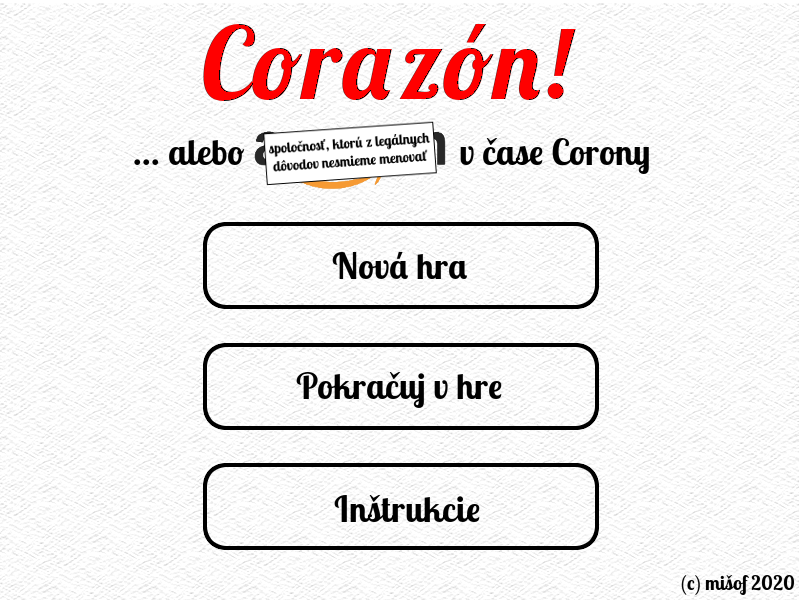
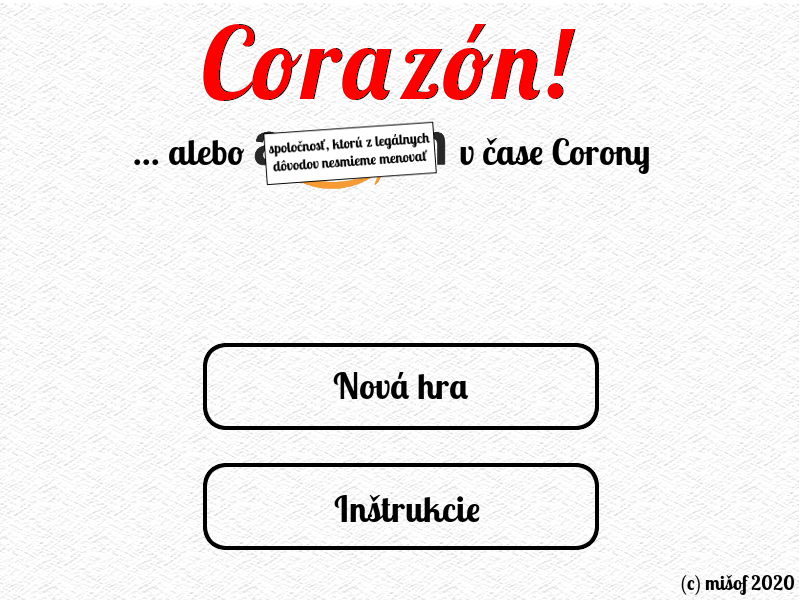
save and load (cloning) works

diff --git a/corazon.py b/corazon.py
@@ -1,63 +1,18 @@
-import math, random, sys, time
+import math, pickle, random, sys, time
 from easygame import *
 from constants import *
 from helper_functions import *
+from resources import *
+from state import State
 from interns import Intern
 from vans import Van
 from airplanes import Airplane
 from player import Player
 
-pic_init_screen = load_image('resources/init_screen.png')
-pic_init_screen_nocont = load_image('resources/init_screen_nocont.png')
-pic_instr_screen = load_image('resources/instructions.png')
-pic_background = load_image('resources/background.png')
-pic_sklad = load_image('resources/sklad.png')
-pic_riksarempty = load_image('resources/riksarempty.png')
-pic_riksarorange = load_image('resources/riksarorange.png')
-pic_dom = load_image('resources/dom.png')
-pic_van = load_image('resources/van.png')
-pic_veziak = load_image('resources/veziak.png')
-pic_lietadlo = load_image('resources/lietadlo.png')
-pic_mesto = load_image('resources/mesto.png')
-
-def formatuj_cislo(cislo):
-    sufixy = [ '', 'k', 'M', 'G', 'T', 'P', 'E', 'Z', 'Y' ]
-    exponent = 0
-    while exponent+1 < len(sufixy) and cislo % 1000 == 0:
-        cislo //= 1000
-        exponent += 1
-    return str(cislo) + sufixy[exponent]
-
-class GameState:
-    def __init__(self):
-        self.stage = 0
-        self.money = 244990
-        self.item_counts = [ 0 for _ in range(len(STAGES)) ]
-
-        self.current_status_message = 'Vitaj!'
-        self.player = Player()
-
-        self.last_disinfection = 25 + time.time()
-        self.seen_disinfection_button = False
-
-        self.interns = []
-        self.vans = []
-        self.airplanes = []
-
-    def get_all_workers(self):
-        return self.interns + self.vans + self.airplanes
-
-    def is_player_active(self):
-        return len(self.get_all_workers()) == 0
-
-def terminate():
-    close_window()
-    sys.exit()
-
 def main_menu():
     while True:
         next_frame()
-        draw_image(pic_init_screen_nocont, position=(0, 0), anchor=(0, 0))
+        draw_image(pic_init_screen, position=(0, 0), anchor=(0, 0))
         for event in poll_events():
             if type(event) is CloseEvent:
                 terminate()
@@ -65,17 +20,15 @@ def main_menu():
                 if event.button == 'LEFT':
                     if 204 <= event.x <= 598:
                         y = 599 - event.y
-                        if 222 <= y <= 308:
-                            return MENU_NEW_GAME
                         if 343 <= y <= 430:
-                            pass
+                            return MENU_NEW_GAME
                         if 463 <= y <= 549:
                             return MENU_INSTRUCTIONS
 
 def instructions():
     while True:
         next_frame()
-        draw_image(pic_instr_screen, position=(0, 0), anchor=(0, 0))
+        draw_image(pic_instructions, position=(0, 0), anchor=(0, 0))
         for event in poll_events():
             if type(event) is CloseEvent:
                 terminate()
@@ -105,13 +58,13 @@ def add_disinfection_button(urgent=False):
     draw_polygon( (SCREENX-179, SCREENY-33), (SCREENX-11, SCREENY-33), (SCREENX-11,SCREENY-11), (SCREENX-179,SCREENY-11), color=bgcolor )
     draw_text('Dezinfikuj si ruky', 'Arial', 16, position=(SCREENX-176, SCREENY-30), color=txcolor )
 
-def draw_button(label, offx, offy, enabled):
+def draw_button(label, offx, offy, enabled, width=24, font_size=16):
     bgcolor = (0.9, 0.9, 0.9, 1)
     txcolor = (0, 0, 0, 1)
     if not enabled: txcolor = (0.7, 0.7, 0.7, 1)
-    draw_polygon( (offx,offy), (offx+24,offy), (offx+24,offy-24), (offx,offy-24), color = txcolor )
-    draw_polygon( (offx+1,offy+1), (offx+23,offy+1), (offx+23,offy-23), (offx+1,offy-23), color = bgcolor )
-    draw_text(label, 'Arial', 16, position=(offx+6, offy-20), color=txcolor )
+    draw_polygon( (offx,offy), (offx+width,offy), (offx+width,offy-24), (offx,offy-24), color = txcolor )
+    draw_polygon( (offx+1,offy+1), (offx+width-1,offy+1), (offx+width-1,offy-23), (offx+1,offy-23), color = bgcolor )
+    draw_text(label, 'Arial', font_size, position=(offx+6, offy-20), color=txcolor )
 
 def draw_current_screen(state):
     draw_image(pic_background, position=(0, 0), anchor=(0, 0))
@@ -128,8 +81,11 @@ def draw_current_screen(state):
     else:
         # draw interns' and vans' houses
         intern_opacity = van_opacity = airplane_opacity = 1
-        if state.vans != []: intern_opacity = 0.2
-        if state.airplanes != []: van_opacity = intern_opacity = 0.1
+        if state.vans != []:
+            intern_opacity = 0.2
+        if state.airplanes != []:
+            van_opacity = 0.07
+            intern_opacity = 0.03
 
         for worker in state.interns:
             for house in worker.pending_houses:
@@ -172,13 +128,24 @@ def draw_current_screen(state):
         draw_polygon( (36,offy-26), (163,offy-26), (163,offy-50), (36,offy-50), color=bgcolor )
         draw_text( str(state.item_counts[s]), 'Arial', 12, position=(40,offy-44), color=txcolor )
 
-def game_over(state, reason):
+    if state.item_counts[STAGE_CLONE] == 1:
+        if state.saved_clone is None:
+            draw_button('naklonuj sa (€10M)', 10, 60, state.money >= 10**7, 179, 12)
+        else:
+            draw_button('prepíš klon (€10M)', 10, 60, state.money >= 10**7, 179, 12)
+
+def game_over(state):
     while True:
         next_frame()
+        state.current_status_message = ''
         draw_current_screen(state)
         draw_text('YOU LOSE', 'Arial', 100, position=(50, SCREENY//2), color=(1,0,0,1))
-        draw_text(reason, 'Arial', 60, position=(50, SCREENY//2 - 90), color=(1,0,0,1))
-        draw_text('press any key', 'Arial', 20, position=(50, 40), color=(1,0,0,1))
+        draw_text('Nakazil(a) si sa :(', 'Arial', 60, position=(50, SCREENY//2 - 90), color=(1,0,0,1))
+        if state.saved_clone is None:
+            draw_text('Press any key...', 'Arial', 20, position=(450, 40), color=(1,0,0,1))
+        else:
+            draw_text('Našťastie tvoj klon ťa nahradí!', 'Arial', 32, position=(50, SCREENY//2 - 140), color=(0,1,0,1))
+            draw_text('Press any key...', 'Arial', 20, position=(450, 40), color=(0,1,0,1))
         for event in poll_events():
             if type(event) is CloseEvent:
                 terminate()
@@ -191,7 +158,6 @@ def handle_left_click(state, event, current_time):
         if SCREENX-180 <= event.x <= SCREENX-10 and SCREENY-34 <= event.y <= SCREENY-10:
             state.last_disinfection = current_time
             state.seen_disinfection_button = True
-            state.current_status_message = ''
             return
 
     # zaciatok pohybu
@@ -201,6 +167,14 @@ def handle_left_click(state, event, current_time):
         state.player.moving_start_time = current_time
         state.player.moving_target = (event.x, event.y)
         return
+
+    # save game
+    if state.item_counts[STAGE_CLONE] == 1 and state.money >= 10**7:
+        if 10 <= event.x <= 179 and 36 <= event.y <= 60:
+            state.money -= 10**7
+            state.saved_clone = None
+            tmp = pickle.dumps(state)
+            state.saved_clone = tmp
     
     menu = stages_in_menu(state)
     for sid in range(len(menu)):
@@ -240,7 +214,7 @@ def handle_drag(state, event, current_time):
         state.player.moving_target = (event.x, event.y)
 
 def play():
-    state = GameState()
+    state = State()
     while True:
         next_frame()
         current_time = time.time()
@@ -249,17 +223,17 @@ def play():
         for idx, stage in enumerate(STAGES):
             if state.money >= stage.reveal_at and state.stage < idx:
                 state.stage = idx
-                if STAGES[idx].message is not None:
-                    state.current_status_message = STAGES[idx].message
 
-        # potreba dezinfekcie
-        if current_time > state.last_disinfection + DISINF_APPEAR and not state.seen_disinfection_button:
-            state.current_status_message = 'Kliknutím na button vpravo hore si dezinfikuj ruky.'
-        if current_time > state.last_disinfection + DISINF_URGENT and not state.seen_disinfection_button:
-            state.current_status_message = 'Kliknutím na button vpravo hore si dezinfikuj ruky. Rýchlo!'
+        # potreba dezinfekcie a mozna smrt
         if current_time > state.last_disinfection + DISINF_DEAD:
-            game_over(state, 'nakazil(a) si sa')
-            return
+            game_over(state)
+            if state.saved_clone is None:
+                return
+            else:
+                saved_state = pickle.loads(state.saved_clone)
+                state = saved_state
+                current_time = time.time()
+                state.last_disinfection = current_time
 
         # automaticky pohyb internov a vanov
         for worker in state.get_all_workers():
@@ -270,6 +244,9 @@ def play():
         if state.is_player_active():
             state.player.process_all_events(state, current_time)
             state.player.move(state)
+
+        # update status_message
+        state.update_status_message()
             
         # vykreslenie obrazovky
         draw_current_screen(state)

diff --git a/constants.py b/constants.py
@@ -13,20 +13,21 @@ WAREHOUSE_POS = (SCREENX//2, SCREENY//2)
 STAGES = []
 STAGES.append( Stage(0, 0, None, 0, 0, False, None) )
 STAGES.append( Stage(8, 8, 'naolejuj rikšu', 0, 1, False, 'Máš dosť peňazí na to, aby si naolejoval(a) rikši prevody.') )
-STAGES.append( Stage(12, 9, 'lepšie prevody', 0, 1, False, '') )
-STAGES.append( Stage(20, 12, 'väčší vozík', 0, 3, True, '') )
+STAGES.append( Stage(12, 9, 'lepšie prevody', 0, 1, False, 'Prenajmi si rikšu s lepšou prehadzovačkou.') )
+STAGES.append( Stage(20, 12, 'väčší vozík', 0, 3, True, 'S väčším vozíkom vieš doručiť viac tovaru.') )
 STAGES.append( Stage(100, 30, 'brigádnik', 1, 20, True, 'Zaplať brigádnika, čo bude šľapať namiesto teba.') )
-STAGES.append( Stage(250, 120, 'reklama', 0, 10, False, '') )
+STAGES.append( Stage(250, 120, 'reklamné letáky', 0, 10, False, 'Letáková kampaň pritiahne viac zákazníkov.') )
 STAGES.append( Stage(10**15, 500, 'sterilný office', 0, 1, True, 'V sterilnom office si netreba dezinfikovať ruky.') )
-STAGES.append( Stage(4000, 600, 'motorikše', 0, 1, True, '') )
-STAGES.append( Stage(10000, 3000, 'dodávka', 0, 50, True, '') )
-STAGES.append( Stage(18000, 9000, 'logistika', 0, 1, False, '') )
-STAGES.append( Stage(22000, 11000, 'lepšie balenie', 0, 3, False, '') )
-STAGES.append( Stage(120000, 30000, 'airdrop', 0, 20, True, '') )
-STAGES.append( Stage(450000, 90000, 'palivové nádrže', 0, 5, True, '') )
-STAGES.append( Stage(15 * 10**6, 500000, 'miniaturizácia tovaru', 0, 1, False, '') )
-STAGES.append( Stage(70 * 10**7, 10**7, 'teleporty', 0, 1, False, '') )
-STAGES.append( Stage(10**10, 10**9, 'replikátory', 0, 1, False, '') )
+STAGES.append( Stage(4000, 600, 'motorikše', 0, 1, True, 'Prenajmi rikše s motorom.') )
+STAGES.append( Stage(10000, 3000, 'dodávka', 0, 50, True, 'Investuj do svojej prvej dodávky.') )
+STAGES.append( Stage(18000, 9000, 'logistika', 0, 1, False, 'Logistické centrum efektívnejšie plánuje rozvoz.') )
+STAGES.append( Stage(22000, 11000, 'lepšie balenie', 0, 3, False, 'Vďaka úspornejšiemu baleniu obslúžime viac klientov.') )
+STAGES.append( Stage(120000, 30000, 'airdrop', 0, 20, True, 'Zhadzuj tovar z lietadla.') )
+STAGES.append( Stage(450000, 90000, 'palivové nádrže', 0, 5, True, 'Udrž lietadlá dlhšie vo vzduchu.') )
+STAGES.append( Stage(15 * 10**6, 500000, 'klonovanie', 0, 1, False, 'Preži aj smrť vďaka klonovacím technológiám.') )
+STAGES.append( Stage(30 * 10**6, 14 * 10**6, 'miniaturizácia', 0, 1, False, 'Miniaturizovaného tovaru sa dá doručiť viac.') )
+STAGES.append( Stage(25 * 10**7, 25 * 10**6, 'teleporty', 0, 1, False, 'Teleportuj tovar ľuďom do domov.') )
+STAGES.append( Stage(10**10, 10**9, 'replikátory', 0, 1, False, 'Vyrábaj tovar priamo u ľudí doma.') )
 
 STAGE_OIL = 1
 STAGE_GEARS = 2
@@ -40,11 +41,19 @@ STAGE_LOGISTICS = 9
 STAGE_PACKING = 10
 STAGE_AIRDROP = 11
 STAGE_FUELTANK = 12
-STAGE_SHRINK = 13
-STAGE_TELEPORT = 14
-STAGE_REPLICATOR = 15
+STAGE_CLONE = 13
+STAGE_SHRINK = 14
+STAGE_TELEPORT = 15
+STAGE_REPLICATOR = 16
 
 MENU_NEW_GAME = 1
 MENU_CONTINUE_GAME = 2
 MENU_INSTRUCTIONS = 3
+
+MESSAGE_WELCOME = 'Vitaj!'
+MESSAGE_PICK_UP_GOODS = 'Choď do skladu po tovar!'
+MESSAGE_DELIVER_GOODS = 'Doruč tovar zákazníkovi!'
+MESSAGE_FIRST_BLOOD = 'Výborne, zarobil(a) si jedno euro.'
+MESSAGE_DISINFECT = 'Kliknutím na button vpravo hore si dezinfikuj ruky.'
+MESSAGE_DISINFECT_URGENT = 'Kliknutím na button vpravo hore si dezinfikuj ruky. Rýchlo!'
 

diff --git a/state.py b/state.py
@@ -1,0 +1,43 @@
+import time
+from constants import *
+from player import Player
+
+class State:
+    def __init__(self):
+        self.stage = 0
+        self.money = 70000000
+        self.item_counts = [ 0 for _ in range(len(STAGES)) ]
+
+        self.current_status_message = ''
+        self.player = Player()
+
+        self.last_disinfection = 25 + time.time()
+        self.seen_disinfection_button = False
+
+        self.interns = []
+        self.vans = []
+        self.airplanes = []
+
+        self.saved_clone = None
+
+    def get_all_workers(self):
+        return self.interns + self.vans + self.airplanes
+
+    def is_player_active(self):
+        return len(self.get_all_workers()) == 0
+
+    def update_status_message(self):
+        self.current_status_message = ''
+        if self.stage == 0 and self.money == 0: self.current_status_message = MESSAGE_WELCOME
+
+        if STAGES[self.stage].message is not None and self.item_counts[self.stage] == 0: self.current_status_message = STAGES[self.stage].message
+
+        if self.is_player_active():
+            if self.player.pending_houses == [] and self.stage == 0 and self.money == 1: self.current_status_message = MESSAGE_FIRST_BLOOD
+            if self.player.pending_houses != [] and self.player.has_cargo == False and self.stage <= 1: self.current_status_message = MESSAGE_PICK_UP_GOODS
+            if self.player.pending_houses != [] and self.player.has_cargo == True and self.stage <= 1: self.current_status_message = MESSAGE_DELIVER_GOODS
+        
+        current_time = time.time()
+        if current_time >= self.last_disinfection + DISINF_APPEAR and not self.seen_disinfection_button: self.current_status_message = MESSAGE_DISINFECT
+        if current_time >= self.last_disinfection + DISINF_URGENT and not self.seen_disinfection_button: self.current_status_message = MESSAGE_DISINFECT_URGENT
+

diff --git a/player.py b/player.py
@@ -13,21 +13,3 @@ class Player(Intern):
         if state.stage == 2: return 3*random.random()
         if state.stage >= 3: return random.random()
 
-    def new_order_if_needed(self, state, current_time):
-        super().new_order_if_needed(state, current_time)
-        if state.stage <= 1:
-            state.current_status_message = 'Choď do skladu po tovar!'
-
-    def pick_up_goods(self, state, current_time):
-        super().pick_up_goods(state, current_time)
-        if state.stage <= 1:
-            state.current_status_message = 'Doruč tovar zákazníkovi!'
-
-    def deliver_goods(self, state, current_time):
-        super().deliver_goods(state, current_time)
-        if state.money == 1:
-            state.current_status_message = 'Výborne, zarobil(a) si jedno euro.'
-        else:
-            if state.current_status_message == 'Doruč tovar zákazníkovi!':
-                state.current_status_message = ''
-

diff --git a/resources.py b/resources.py
@@ -1,0 +1,15 @@
+from easygame import *
+
+pic_background = load_image('resources/background.png')
+pic_dom = load_image('resources/dom.png')
+pic_init_screen_nocont = load_image('resources/init_screen_nocont.png')
+pic_init_screen = load_image('resources/init_screen.png')
+pic_instructions = load_image('resources/instructions.png')
+pic_lietadlo = load_image('resources/lietadlo.png')
+pic_mesto = load_image('resources/mesto.png')
+pic_riksarempty = load_image('resources/riksarempty.png')
+pic_riksarorange = load_image('resources/riksarorange.png')
+pic_sklad = load_image('resources/sklad.png')
+pic_van = load_image('resources/van.png')
+pic_veziak = load_image('resources/veziak.png')
+

diff --git a/helper_functions.py b/helper_functions.py
@@ -1,4 +1,4 @@
-import itertools, math
+import itertools, math, sys
 from easygame import *
 from constants import *
 
@@ -35,6 +35,6 @@ def optimize_order(seq):
 def stages_in_menu(state):
     candidates = list( range(1, state.stage+1) )
     candidates = [ ( STAGES[c].cost, c ) for c in candidates ]
-    while len(candidates) > 9: candidates.remove( min(candidates) )
+    while len(candidates) > 8: candidates.remove( min(candidates) )
     return [ c[1] for c in candidates ]
 
